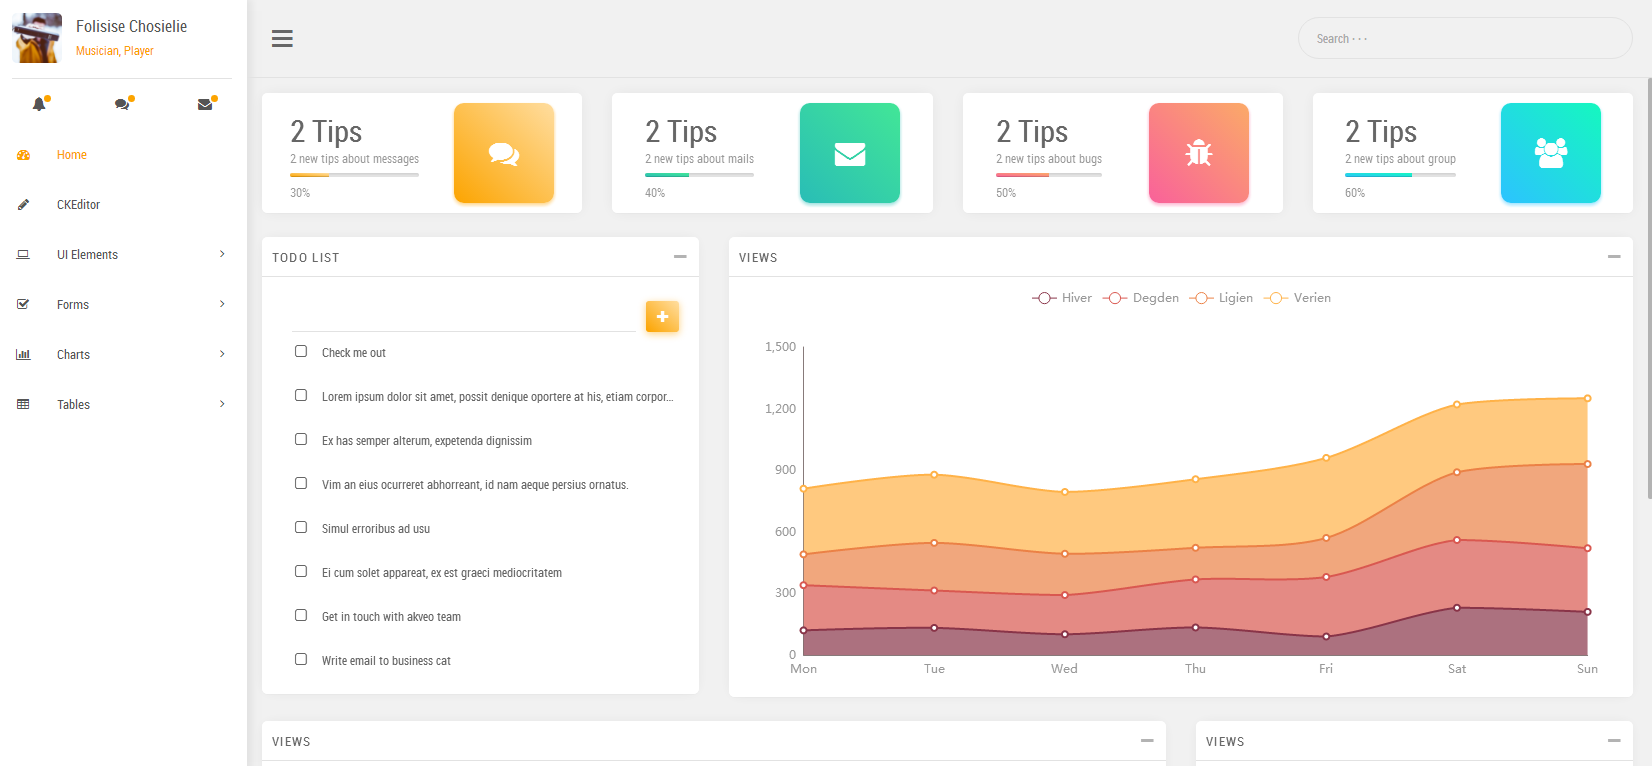
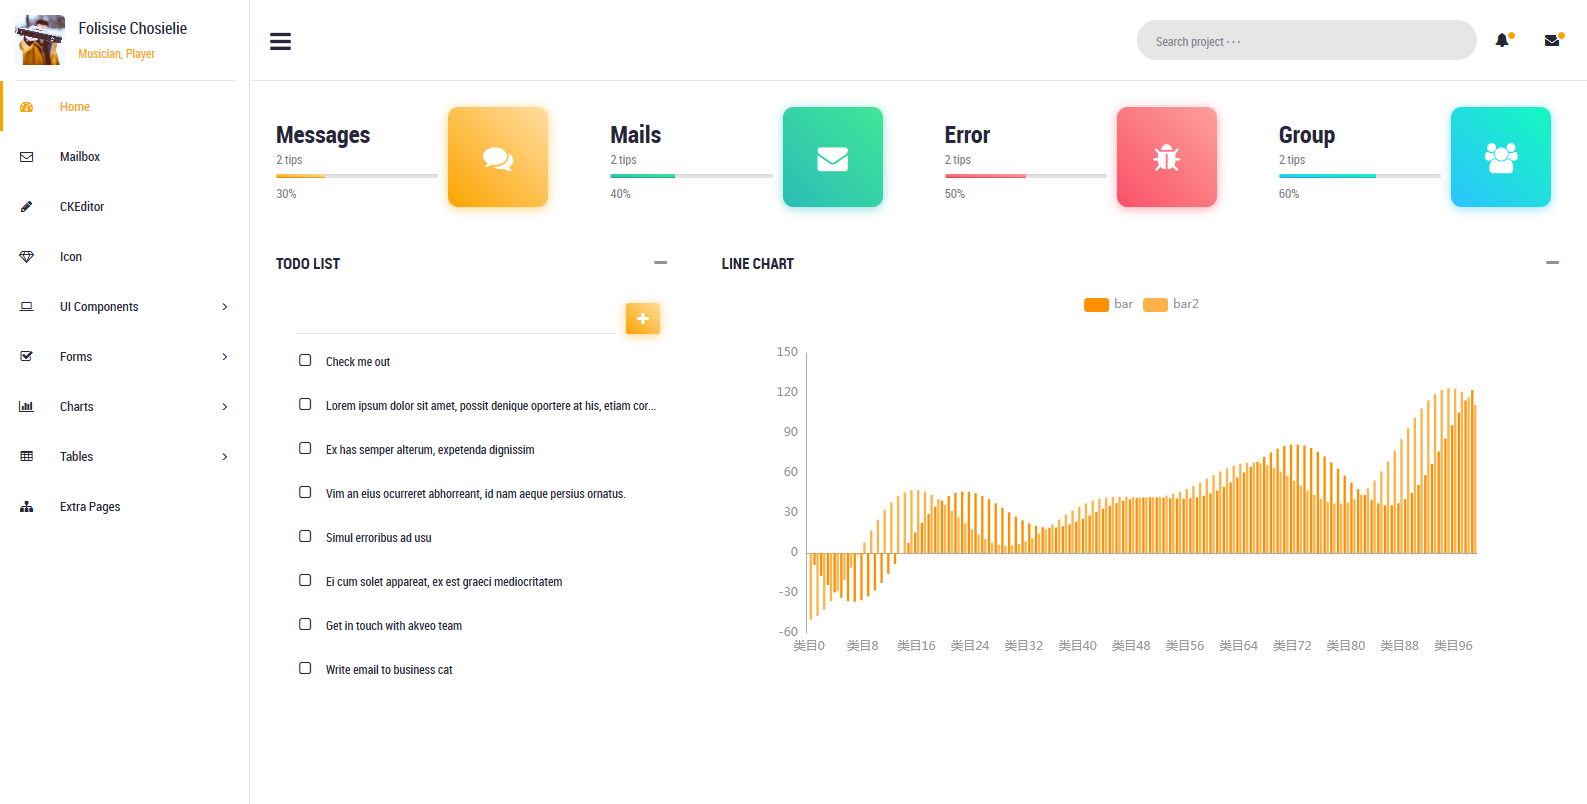
1

diff --git a/src/app/shared/theme/conf.scss b/src/app/shared/theme/conf.scss
@@ -1,4 +1,4 @@
 //@import './color-schemes/_dark';
-@import './color-schemes/_default';
-//@import './color-schemes/_light';
+//@import './color-schemes/_default';
+@import './color-schemes/_light';
 @import './mixin';
